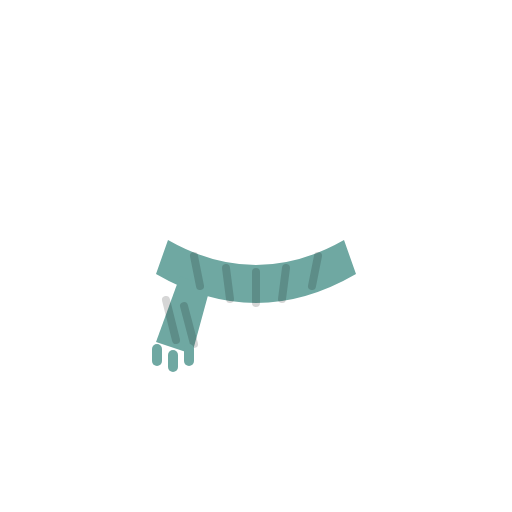
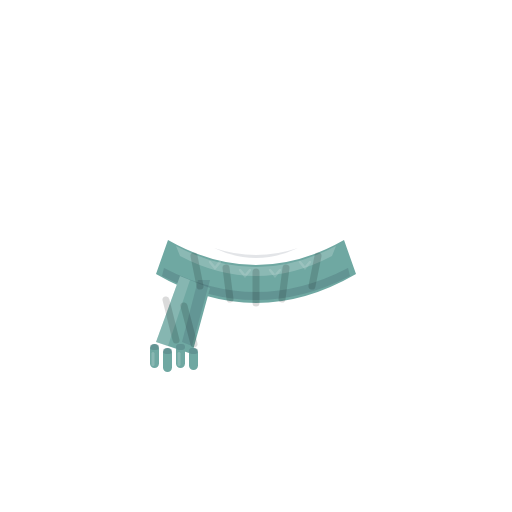
形象拟人化细节同步到 iOS：发型/配饰切层 + 睁眼表情 + 针织围巾
细节层（双马尾/丸子头/刘海/帽/镜/耳机/蝴蝶结/腮红）作为带 slot 的图层进 fox_rig.json，
FoxRig 按形象编号选细节图，AvatarPose 让细节跟头同步歪/摇、待机马尾轻晃；
happy/think 改睁眼、围巾加针织质感，与安卓逐条等价，黄金值表两端同步重生成。

Changed region(s): [[0.3438, 0.4688, 0.6562, 0.5625], [0.2812, 0.6562, 0.4062, 0.75], [0.3125, 0.5938, 0.3438, 0.625]]

diff --git a/Kit/Tests/AvatarPoseTests.swift b/Kit/Tests/AvatarPoseTests.swift
@@ -11,30 +11,30 @@ import XCTest
 /// 重新生成 `app/src/test/resources/fox-pose-golden.txt`；把那份新文本整块换到这里即可。
 /// 两边文本必须逐字相同，这个文件是 iOS 侧唯一能发现"两端各写一份数、悄悄漂了"的地方。
 private let goldenPoseTable = """
-LOOP|IDLE|0|idle|layer-body|0.00000000|0.00000000|-0.00000000|1.00000000|layer-ears|0.00000000|0.00000000|0.00000000|1.00000000|layer-tail|-9.00000000|0.00000000|0.00000000|1.00000000
-LOOP|IDLE|700|idle|layer-body|0.00000000|0.00000000|-0.04082020|1.05224991|layer-ears|0.00000000|0.00000000|0.00000000|1.00000000|layer-tail|0.84990788|0.00000000|0.00000000|1.00000000
-LOOP|IDLE|1000|idle|layer-body|0.00000000|0.00000000|-0.05524272|1.07071066|layer-ears|0.00000000|0.00000000|0.00000000|1.00000000|layer-tail|4.63355446|0.00000000|0.00000000|1.00000000
-LOOP|IDLE|2000|idle|layer-body|0.00000000|0.00000000|-0.07812500|1.10000002|layer-ears|0.00000000|0.00000000|0.00000000|1.00000000|layer-tail|13.44039154|0.00000000|0.00000000|1.00000000
-LOOP|IDLE|3000|idle|layer-body|0.00000000|0.00000000|-0.05524272|1.07071066|layer-ears|-7.23913622|0.00000000|0.00000000|1.00000000|layer-tail|14.30260468|0.00000000|0.00000000|1.00000000
-LOOP|IDLE|3999|idle|layer-body|0.00000000|0.00000000|-0.00006135|1.00007856|layer-ears|8.31422901|0.00000000|0.00000000|1.00000000|layer-tail|6.92579460|0.00000000|0.00000000|1.00000000
+LOOP|IDLE|0|idle|layer-body|0.00000000|0.00000000|-0.00000000|1.00000000|layer-detail-back|-2.50000000|0.00000000|0.00000000|1.00000000|layer-ears|0.00000000|0.00000000|0.00000000|1.00000000|layer-tail|-9.00000000|0.00000000|0.00000000|1.00000000
+LOOP|IDLE|700|idle|layer-body|0.00000000|0.00000000|-0.04082020|1.05224991|layer-detail-back|-0.44793582|0.00000000|0.00000000|1.00000000|layer-ears|0.00000000|0.00000000|0.00000000|1.00000000|layer-tail|0.84990788|0.00000000|0.00000000|1.00000000
+LOOP|IDLE|1000|idle|layer-body|0.00000000|0.00000000|-0.05524272|1.07071066|layer-detail-back|0.34032369|0.00000000|0.00000000|1.00000000|layer-ears|0.00000000|0.00000000|0.00000000|1.00000000|layer-tail|4.63355446|0.00000000|0.00000000|1.00000000
+LOOP|IDLE|2000|idle|layer-body|0.00000000|0.00000000|-0.07812500|1.10000002|layer-detail-back|2.17508125|0.00000000|0.00000000|1.00000000|layer-ears|0.00000000|0.00000000|0.00000000|1.00000000|layer-tail|13.44039154|0.00000000|0.00000000|1.00000000
+LOOP|IDLE|3000|idle|layer-body|0.00000000|0.00000000|-0.05524272|1.07071066|layer-detail-back|2.35470915|0.00000000|0.00000000|1.00000000|layer-ears|-7.23913622|0.00000000|0.00000000|1.00000000|layer-tail|14.30260468|0.00000000|0.00000000|1.00000000
+LOOP|IDLE|3999|idle|layer-body|0.00000000|0.00000000|-0.00006135|1.00007856|layer-detail-back|0.81787372|0.00000000|0.00000000|1.00000000|layer-ears|8.31422901|0.00000000|0.00000000|1.00000000|layer-tail|6.92579460|0.00000000|0.00000000|1.00000000
 LOOP|PLAYING|0|happy|layer-arm-left|-18.00000000|0.00000000|0.00000000|1.00000000|layer-arm-right|18.00000000|0.00000000|0.00000000|1.00000000|layer-body|0.00000000|0.00000000|0.00000000|1.00000000|layer-tail|-26.00000000|0.00000000|0.00000000|1.00000000
 LOOP|PLAYING|275|happy|layer-arm-left|8.87005806|0.00000000|0.00000000|1.00000000|layer-arm-right|-8.87005806|0.00000000|0.00000000|1.00000000|layer-body|0.00000000|0.00000000|-0.07812500|1.00000000|layer-tail|14.85242081|0.00000000|0.00000000|1.00000000
 LOOP|PLAYING|495|happy|layer-arm-left|19.53215790|0.00000000|0.00000000|1.00000000|layer-arm-right|-19.53215790|0.00000000|0.00000000|1.00000000|layer-body|0.00000000|0.00000000|-0.14062500|1.00000000|layer-tail|18.52977371|0.00000000|0.00000000|1.00000000
 LOOP|PLAYING|605|happy|layer-arm-left|19.53215408|0.00000000|0.00000000|1.00000000|layer-arm-right|-19.53215408|0.00000000|0.00000000|1.00000000|layer-body|0.00000000|0.00000000|-0.06510416|1.00000000|layer-tail|8.48257828|0.00000000|0.00000000|1.00000000
 LOOP|PLAYING|825|happy|layer-arm-left|8.87005806|0.00000000|0.00000000|1.00000000|layer-arm-right|-8.87005806|0.00000000|0.00000000|1.00000000|layer-body|0.00000000|0.00000000|-0.01708984|1.00000000|layer-tail|-25.09972000|0.00000000|0.00000000|1.00000000
 LOOP|PLAYING|1099|happy|layer-arm-left|-17.89147568|0.00000000|0.00000000|1.00000000|layer-arm-right|17.89147568|0.00000000|0.00000000|1.00000000|layer-body|0.00000000|0.00000000|-0.00006215|1.00000000|layer-tail|15.20375061|0.00000000|0.00000000|1.00000000
-LOOP|QUIZ|0|think|layer-ears|0.00000000|0.00000000|0.00000000|1.00000000|layer-head|-14.00000000|0.00000000|0.00000000|1.00000000
-LOOP|QUIZ|850|think|layer-ears|0.00000000|0.00000000|0.00000000|1.00000000|layer-head|5.79899025|0.00000000|0.00000000|1.00000000
-LOOP|QUIZ|1700|think|layer-ears|0.00000000|0.00000000|0.00000000|1.00000000|layer-head|14.00000000|0.00000000|0.00000000|1.00000000
-LOOP|QUIZ|2550|think|layer-ears|0.00000000|0.00000000|0.00000000|1.00000000|layer-head|5.79899025|0.00000000|0.00000000|1.00000000
-LOOP|QUIZ|3220|think|layer-ears|-18.00000000|0.00000000|0.00000000|1.00000000|layer-head|-9.36449432|0.00000000|0.00000000|1.00000000
-LOOP|QUIZ|3404|think|layer-ears|-1.99998856|0.00000000|0.00000000|1.00000000|layer-head|-13.89651203|0.00000000|0.00000000|1.00000000
-LOOP|QUIZ|4599|think|layer-ears|0.01383305|0.00000000|0.00000000|1.00000000|layer-head|11.05303001|0.00000000|0.00000000|1.00000000
-LOOP|WARNING|0|think|layer-ears|0.00000000|0.00000000|0.00000000|1.00000000|layer-head|-12.00000000|0.00000000|0.00000000|1.00000000
-LOOP|WARNING|105|think|layer-ears|-6.36396074|0.00000000|0.03038349|1.00000000|layer-head|4.97056198|0.00000000|0.00000000|1.00000000
-LOOP|WARNING|210|think|layer-ears|-9.00000000|0.00000000|0.04296875|1.00000000|layer-head|12.00000000|0.00000000|0.00000000|1.00000000
-LOOP|WARNING|315|think|layer-ears|-6.36396074|0.00000000|0.03038349|1.00000000|layer-head|4.97056198|0.00000000|0.00000000|1.00000000
-LOOP|WARNING|419|think|layer-ears|-0.06731988|0.00000000|0.00032141|1.00000000|layer-head|-11.82048035|0.00000000|0.00000000|1.00000000
+LOOP|QUIZ|0|think|layer-detail-back|-14.00000000|0.00000000|0.00000000|1.00000000|layer-detail-front|-14.00000000|0.00000000|0.00000000|1.00000000|layer-ears|0.00000000|0.00000000|0.00000000|1.00000000|layer-head|-14.00000000|0.00000000|0.00000000|1.00000000
+LOOP|QUIZ|850|think|layer-detail-back|5.79899025|0.00000000|0.00000000|1.00000000|layer-detail-front|5.79899025|0.00000000|0.00000000|1.00000000|layer-ears|0.00000000|0.00000000|0.00000000|1.00000000|layer-head|5.79899025|0.00000000|0.00000000|1.00000000
+LOOP|QUIZ|1700|think|layer-detail-back|14.00000000|0.00000000|0.00000000|1.00000000|layer-detail-front|14.00000000|0.00000000|0.00000000|1.00000000|layer-ears|0.00000000|0.00000000|0.00000000|1.00000000|layer-head|14.00000000|0.00000000|0.00000000|1.00000000
+LOOP|QUIZ|2550|think|layer-detail-back|5.79899025|0.00000000|0.00000000|1.00000000|layer-detail-front|5.79899025|0.00000000|0.00000000|1.00000000|layer-ears|0.00000000|0.00000000|0.00000000|1.00000000|layer-head|5.79899025|0.00000000|0.00000000|1.00000000
+LOOP|QUIZ|3220|think|layer-detail-back|-9.36449432|0.00000000|0.00000000|1.00000000|layer-detail-front|-9.36449432|0.00000000|0.00000000|1.00000000|layer-ears|-18.00000000|0.00000000|0.00000000|1.00000000|layer-head|-9.36449432|0.00000000|0.00000000|1.00000000
+LOOP|QUIZ|3404|think|layer-detail-back|-13.89651203|0.00000000|0.00000000|1.00000000|layer-detail-front|-13.89651203|0.00000000|0.00000000|1.00000000|layer-ears|-1.99998856|0.00000000|0.00000000|1.00000000|layer-head|-13.89651203|0.00000000|0.00000000|1.00000000
+LOOP|QUIZ|4599|think|layer-detail-back|11.05303001|0.00000000|0.00000000|1.00000000|layer-detail-front|11.05303001|0.00000000|0.00000000|1.00000000|layer-ears|0.01383305|0.00000000|0.00000000|1.00000000|layer-head|11.05303001|0.00000000|0.00000000|1.00000000
+LOOP|WARNING|0|think|layer-detail-back|-12.00000000|0.00000000|0.00000000|1.00000000|layer-detail-front|-12.00000000|0.00000000|0.00000000|1.00000000|layer-ears|0.00000000|0.00000000|0.00000000|1.00000000|layer-head|-12.00000000|0.00000000|0.00000000|1.00000000
+LOOP|WARNING|105|think|layer-detail-back|4.97056198|0.00000000|0.00000000|1.00000000|layer-detail-front|4.97056198|0.00000000|0.00000000|1.00000000|layer-ears|-6.36396074|0.00000000|0.03038349|1.00000000|layer-head|4.97056198|0.00000000|0.00000000|1.00000000
+LOOP|WARNING|210|think|layer-detail-back|12.00000000|0.00000000|0.00000000|1.00000000|layer-detail-front|12.00000000|0.00000000|0.00000000|1.00000000|layer-ears|-9.00000000|0.00000000|0.04296875|1.00000000|layer-head|12.00000000|0.00000000|0.00000000|1.00000000
+LOOP|WARNING|315|think|layer-detail-back|4.97056198|0.00000000|0.00000000|1.00000000|layer-detail-front|4.97056198|0.00000000|0.00000000|1.00000000|layer-ears|-6.36396074|0.00000000|0.03038349|1.00000000|layer-head|4.97056198|0.00000000|0.00000000|1.00000000
+LOOP|WARNING|419|think|layer-detail-back|-11.82048035|0.00000000|0.00000000|1.00000000|layer-detail-front|-11.82048035|0.00000000|0.00000000|1.00000000|layer-ears|-0.06731988|0.00000000|0.00032141|1.00000000|layer-head|-11.82048035|0.00000000|0.00000000|1.00000000
 LOOP|PAUSED|0|idle|NONE
 LOOP|PAUSED|1234|idle|NONE
 LOOP|PENDING_PARENT|0|idle|NONE

diff --git a/App/Sources/FoxRig.swift b/App/Sources/FoxRig.swift
@@ -24,16 +24,25 @@ final class FoxRig {
         let pivotX: CGFloat
         let pivotY: CGFloat
 
-        /// 这一层这一刻该画哪张图；围巾跟家长挑的那一档走，表情跟动作档位走。
-        func image(rig: FoxRig, scarf: String, expression: String) -> Image? {
+        /// 这一层这一刻该画哪张图；围巾/细节跟家长挑的那一档走，表情跟动作档位走。
+        func image(rig: FoxRig, scarf: String, expression: String, avatar: Int) -> Image? {
+            let detail = rig.details.indices.contains(avatar - 1) ? rig.details[avatar - 1] : nil
             let key: String?
             switch slot {
             case "scarf": key = scarf
             case "face": key = rig.faces[expression] ?? rig.faces[AvatarPose.exprIdle]
+            case "detail-back": key = detail?.back
+            case "detail-front": key = detail?.front
             default: key = file
             }
             return key.flatMap { rig.images[$0] }
         }
+    }
+
+    /// 一只形象的拟人化细节图名：头后一组、脸前一组，没有那一槽就是 nil（整块不画）。
+    struct Detail {
+        let back: String?
+        let front: String?
     }
 
     let layers: [Layer]
@@ -41,6 +50,7 @@ final class FoxRig {
     /// 由素材导出脚本交叉断言看着，所以这里不再另写一张编号→名字的映射。
     let scarves: [String]
     let faces: [String: String]
+    let details: [Detail]
     let images: [String: Image]
 
     private static var cached: FoxRig?
@@ -71,17 +81,20 @@ final class FoxRig {
         }
         struct ScarfRow: Decodable { let id: String; let file: String }
         struct FaceRow: Decodable { let name: String; let file: String }
+        struct DetailRow: Decodable { let id: String; let back: String?; let front: String? }
         // 刻意不收 size：画布边长两端都写死 512（AvatarPose.canvas 也是它），
         // 多读一份只会多出一个"表和常量不一致时听谁的"的问题。
         let layers: [LayerRow]
         let scarves: [ScarfRow]
         let faces: [FaceRow]
+        let details: [DetailRow]
     }
 
-    private init(layers: [Layer], scarves: [String], faces: [String: String], images: [String: Image]) {
+    private init(layers: [Layer], scarves: [String], faces: [String: String], details: [Detail], images: [String: Image]) {
         self.layers = layers
         self.scarves = scarves
         self.faces = faces
+        self.details = details
         self.images = images
     }
 
@@ -92,7 +105,7 @@ final class FoxRig {
             DiagLog.record("avatar", "几何表 fox_rig.json 读不出来，这一版不画狐狸", level: .error)
             return nil
         }
-        guard !table.layers.isEmpty, !table.scarves.isEmpty, !table.faces.isEmpty else {
+        guard !table.layers.isEmpty, !table.scarves.isEmpty, !table.faces.isEmpty, !table.details.isEmpty else {
             DiagLog.record("avatar", "几何表是空的，这一版不画狐狸", level: .error)
             return nil
         }
@@ -103,9 +116,11 @@ final class FoxRig {
         }
         let scarves = table.scarves.map { $0.file }
         let faces = Dictionary(uniqueKeysWithValues: table.faces.map { ($0.name, $0.file) })
+        let details = table.details.map { Detail(back: $0.back, front: $0.front) }
 
         // 表里点到的图名一个都不能缺：缺一张就说明素材和几何表不是同一次导出的。
-        let wanted = Array(Set(layers.map { $0.file } + scarves + faces.values)).sorted()
+        let detailFiles = details.flatMap { [$0.back, $0.front].compactMap { $0 } }
+        let wanted = Array(Set(layers.map { $0.file } + scarves + faces.values + detailFiles)).sorted()
         var images: [String: Image] = [:]
         var missing: [String] = []
         for name in wanted {
@@ -116,7 +131,7 @@ final class FoxRig {
                            level: .error)
             return nil
         }
-        return FoxRig(layers: layers, scarves: scarves, faces: faces, images: images)
+        return FoxRig(layers: layers, scarves: scarves, faces: faces, details: details, images: images)
     }
 
     /// 素材是平铺拷进包根的（XcodeGen 把 App/Resources 下的文件当资源逐个拷），

diff --git a/Kit/Sources/AvatarPose.swift b/Kit/Sources/AvatarPose.swift
@@ -32,6 +32,8 @@ public enum AvatarPose {
     public static let layerHead = "layer-head"
     public static let layerFace = "layer-face"
     public static let layerScarf = "layer-scarf"
+    public static let layerDetailBack = "layer-detail-back"
+    public static let layerDetailFront = "layer-detail-front"
 
     public static let exprIdle = "idle"
     public static let exprHappy = "happy"
@@ -100,6 +102,8 @@ public enum AvatarPose {
             parts[layerTail] = Part(rotate: swing(phaseOf(nowMs, tailSlowMs), -9, 15))
             // 待机时耳朵偶尔抖一下：这几格都只有 40~76pt，光靠呼吸看不出来。
             parts[layerEars] = Part(rotate: twitch(phaseOf(nowMs, twitchMs)))
+            // 头后的马尾/丸子头轻轻晃（和后台 detail-sway 同周期同幅度）；刘海贴着头不动。
+            parts[layerDetailBack] = Part(rotate: swing(phaseOf(nowMs, tailSlowMs), -2.5, 2.5))
 
         case .playing:
             let hop = phaseOf(nowMs, hopMs)
@@ -109,13 +113,20 @@ public enum AvatarPose {
             parts[layerArmRight] = Part(rotate: swing(hop, 18, -20))
 
         case .quiz:
-            parts[layerHead] = Part(rotate: swing(phaseOf(nowMs, tiltMs), -14, 14))
+            let tilt = swing(phaseOf(nowMs, tiltMs), -14, 14)
+            parts[layerHead] = Part(rotate: tilt)
+            // 头发/眼镜/帽子绕同一个支点跟头一起歪，不然头从头发里滑出去。
+            parts[layerDetailBack] = Part(rotate: tilt)
+            parts[layerDetailFront] = Part(rotate: tilt)
             // 耳朵只在 62%~78% 那一小段动，其余时间是直的：抽样只取半周期会看到"没动"。
             parts[layerEars] = Part(rotate: twitch(phaseOf(nowMs, twitchMs)))
 
         case .warning:
             let p = phaseOf(nowMs, shakeMs)
-            parts[layerHead] = Part(rotate: swing(p, -12, 12))
+            let shake = swing(p, -12, 12)
+            parts[layerHead] = Part(rotate: shake)
+            parts[layerDetailBack] = Part(rotate: shake)
+            parts[layerDetailFront] = Part(rotate: shake)
             parts[layerEars] = Part(rotate: swing(p, 0, -9), dy: swing(p, 0, 22 / canvas))
         }
         return Pose(expression: expressionOf(state), parts: parts)

diff --git a/App/Sources/AvatarRigView.swift b/App/Sources/AvatarRigView.swift
@@ -70,7 +70,7 @@ struct AvatarRigView: View {
             // 支点是按母版 viewBox 512 给的，绘制时折算到这个方框。
             let fit = box / FoxRig.canvas
             for layer in rig.layers {
-                guard let image = layer.image(rig: rig, scarf: scarf, expression: pose.expression) else {
+                guard let image = layer.image(rig: rig, scarf: scarf, expression: pose.expression, avatar: avatarId) else {
                     // 表里没有的图层就整块不画：半只狐狸比没有狐狸更容易被当成显示故障报上来。
                     continue
                 }
